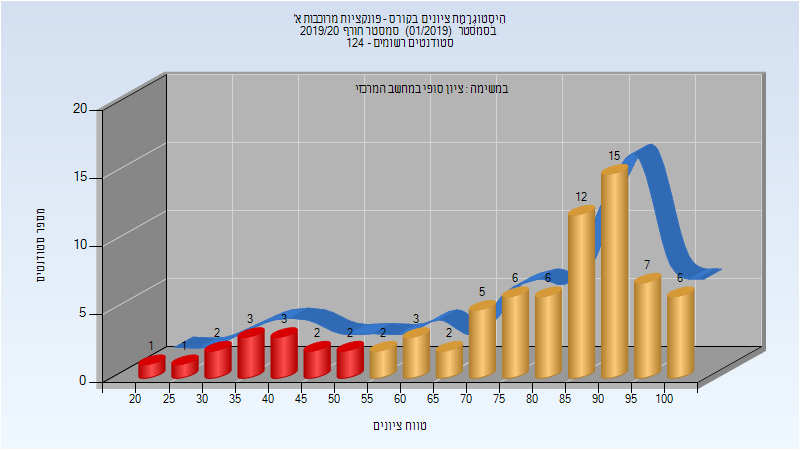
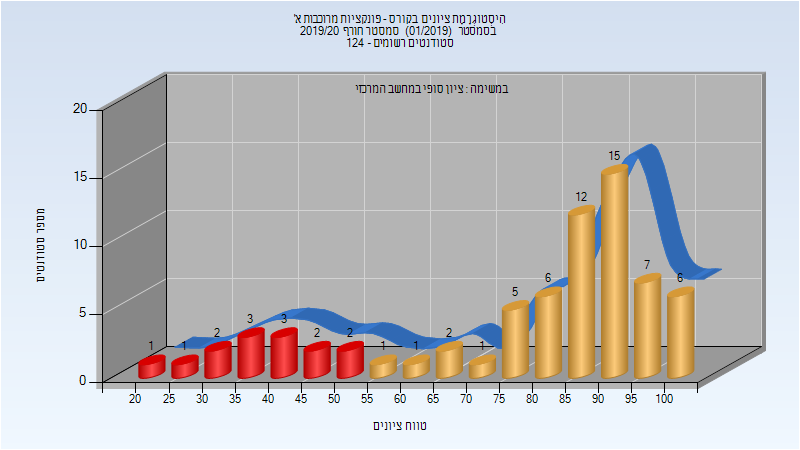
Deploy michael-maltsev/technion-histograms to github.com/michael-maltsev/technion-histograms.git:gh-pages

Changed region(s): [[0.4375, 0.5911, 0.7188, 0.8089]]

diff --git a/334021/index.html b/334021/index.html
@@ -371,8 +371,34 @@
 <td>100</td>
 <td>73</td>
 <td>100</td>
-<td>90.707</td>
+<td>90.744</td>
 <td>91</td>
+</tr>
+</tbody>
+</table>
+<h3>סופי מועד ב'</h3>
+<p><img src="201901/Final_B.png" alt="201901 Final_B" /></p>
+<table>
+<thead>
+<tr>
+<th>סטודנטים</th>
+<th>עברו/נכשלו</th>
+<th>אחוז עוברים</th>
+<th>ציון מינימלי</th>
+<th>ציון מקסימלי</th>
+<th>ממוצע</th>
+<th>חציון</th>
+</tr>
+</thead>
+<tbody>
+<tr>
+<td>12</td>
+<td>12/0</td>
+<td>100</td>
+<td>79</td>
+<td>100</td>
+<td>92.75</td>
+<td>95.5</td>
 </tr>
 </tbody>
 </table>
@@ -392,13 +418,13 @@
 </thead>
 <tbody>
 <tr>
-<td>82</td>
-<td>82/0</td>
+<td>89</td>
+<td>89/0</td>
 <td>100</td>
 <td>73</td>
 <td>100</td>
-<td>90.744</td>
-<td>91</td>
+<td>91.607</td>
+<td>94</td>
 </tr>
 </tbody>
 </table>

diff --git a/104215/index.html b/104215/index.html
@@ -1244,6 +1244,32 @@
 </tr>
 </tbody>
 </table>
+<h3>סופי מועד ב'</h3>
+<p><img src="201901/Final_B.png" alt="201901 Final_B" /></p>
+<table>
+<thead>
+<tr>
+<th>סטודנטים</th>
+<th>עברו/נכשלו</th>
+<th>אחוז עוברים</th>
+<th>ציון מינימלי</th>
+<th>ציון מקסימלי</th>
+<th>ממוצע</th>
+<th>חציון</th>
+</tr>
+</thead>
+<tbody>
+<tr>
+<td>39</td>
+<td>31/8</td>
+<td>79</td>
+<td>27</td>
+<td>100</td>
+<td>72.641</td>
+<td>75</td>
+</tr>
+</tbody>
+</table>
 <h3>סופי</h3>
 <p><img src="201901/Finals.png" alt="201901 Finals" /></p>
 <table>
@@ -1265,8 +1291,8 @@
 <td>84</td>
 <td>24</td>
 <td>100</td>
-<td>77</td>
-<td>85.5</td>
+<td>77.986</td>
+<td>87</td>
 </tr>
 </tbody>
 </table>

diff --git a/114036/index.html b/114036/index.html
@@ -646,7 +646,7 @@
 <td>83</td>
 <td>16</td>
 <td>100</td>
-<td>73.27</td>
+<td>73.337</td>
 <td>80</td>
 </tr>
 </tbody>
@@ -672,7 +672,33 @@
 <td>89</td>
 <td>29</td>
 <td>100</td>
-<td>77.607</td>
+<td>77.652</td>
+<td>83</td>
+</tr>
+</tbody>
+</table>
+<h3>סופי</h3>
+<p><img src="201902/Finals.png" alt="201902 Finals" /></p>
+<table>
+<thead>
+<tr>
+<th>סטודנטים</th>
+<th>עברו/נכשלו</th>
+<th>אחוז עוברים</th>
+<th>ציון מינימלי</th>
+<th>ציון מקסימלי</th>
+<th>ממוצע</th>
+<th>חציון</th>
+</tr>
+</thead>
+<tbody>
+<tr>
+<td>89</td>
+<td>79/10</td>
+<td>89</td>
+<td>29</td>
+<td>100</td>
+<td>77.652</td>
 <td>83</td>
 </tr>
 </tbody>

diff --git a/334021/README.md b/334021/README.md
@@ -113,7 +113,15 @@
 
 | סטודנטים | עברו/נכשלו | אחוז עוברים | ציון מינימלי | ציון מקסימלי | ממוצע | חציון |
 | ---- | ---- | ---- | ---- | ---- | ---- | ---- |
-| 82 | 82/0 | 100 | 73 | 100 | 90.707 | 91 |
+| 82 | 82/0 | 100 | 73 | 100 | 90.744 | 91 |
+
+### סופי מועד ב'
+
+![201901 Final_B](201901/Final_B.png)
+
+| סטודנטים | עברו/נכשלו | אחוז עוברים | ציון מינימלי | ציון מקסימלי | ממוצע | חציון |
+| ---- | ---- | ---- | ---- | ---- | ---- | ---- |
+| 12 | 12/0 | 100 | 79 | 100 | 92.75 | 95.5 |
 
 ### סופי
 
@@ -121,5 +129,5 @@
 
 | סטודנטים | עברו/נכשלו | אחוז עוברים | ציון מינימלי | ציון מקסימלי | ממוצע | חציון |
 | ---- | ---- | ---- | ---- | ---- | ---- | ---- |
-| 82 | 82/0 | 100 | 73 | 100 | 90.744 | 91 |
+| 89 | 89/0 | 100 | 73 | 100 | 91.607 | 94 |
 

diff --git a/114036/README.md b/114036/README.md
@@ -200,7 +200,7 @@
 
 | סטודנטים | עברו/נכשלו | אחוז עוברים | ציון מינימלי | ציון מקסימלי | ממוצע | חציון |
 | ---- | ---- | ---- | ---- | ---- | ---- | ---- |
-| 89 | 74/15 | 83 | 16 | 100 | 73.27 | 80 |
+| 89 | 74/15 | 83 | 16 | 100 | 73.337 | 80 |
 
 ### סופי מועד א'
 
@@ -208,5 +208,13 @@
 
 | סטודנטים | עברו/נכשלו | אחוז עוברים | ציון מינימלי | ציון מקסימלי | ממוצע | חציון |
 | ---- | ---- | ---- | ---- | ---- | ---- | ---- |
-| 89 | 79/10 | 89 | 29 | 100 | 77.607 | 83 |
+| 89 | 79/10 | 89 | 29 | 100 | 77.652 | 83 |
+
+### סופי
+
+![201902 Finals](201902/Finals.png)
+
+| סטודנטים | עברו/נכשלו | אחוז עוברים | ציון מינימלי | ציון מקסימלי | ממוצע | חציון |
+| ---- | ---- | ---- | ---- | ---- | ---- | ---- |
+| 89 | 79/10 | 89 | 29 | 100 | 77.652 | 83 |
 

diff --git a/104215/README.md b/104215/README.md
@@ -389,11 +389,19 @@
 | ---- | ---- | ---- | ---- | ---- | ---- | ---- |
 | 89 | 75/14 | 84 | 24 | 100 | 75.517 | 81 |
 
+### סופי מועד ב'
+
+![201901 Final_B](201901/Final_B.png)
+
+| סטודנטים | עברו/נכשלו | אחוז עוברים | ציון מינימלי | ציון מקסימלי | ממוצע | חציון |
+| ---- | ---- | ---- | ---- | ---- | ---- | ---- |
+| 39 | 31/8 | 79 | 27 | 100 | 72.641 | 75 |
+
 ### סופי
 
 ![201901 Finals](201901/Finals.png)
 
 | סטודנטים | עברו/נכשלו | אחוז עוברים | ציון מינימלי | ציון מקסימלי | ממוצע | חציון |
 | ---- | ---- | ---- | ---- | ---- | ---- | ---- |
-| 89 | 75/14 | 84 | 24 | 100 | 77 | 85.5 |
+| 89 | 75/14 | 84 | 24 | 100 | 77.986 | 87 |
 
